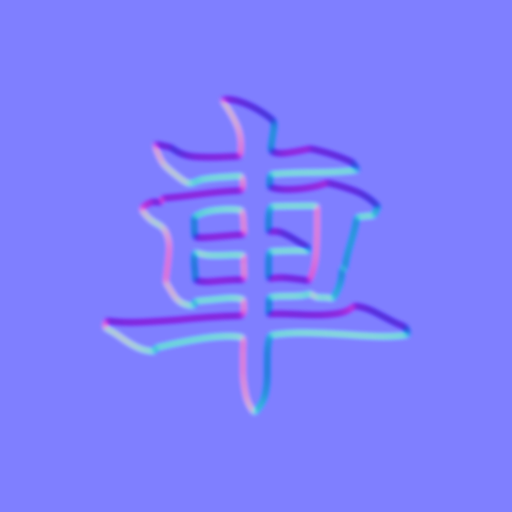
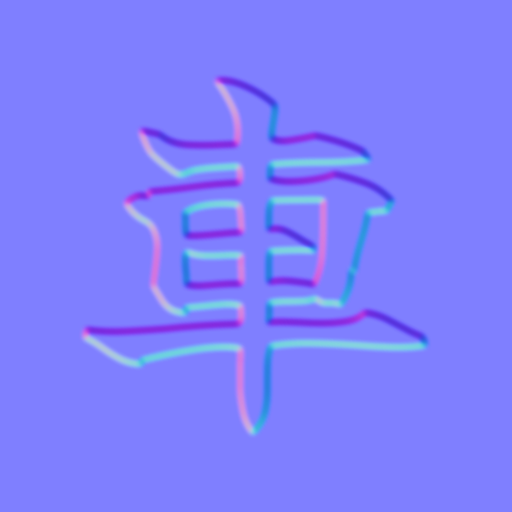
시점·글자·선택 표시를 새 3D 스타일에 맞게 다듬기
- 시야각 38도·기본 시점 68도로 원근 왜곡을 줄여 판을 크게, 세로 화면 고정
- 기물 글자를 크고 진하게 다시 구움
- 이동 가능 칸은 판 위 초록 점, 잡을 수 있는 말은 붉은 고리, 선택한 말은 살짝 들어 올림
- 직전 수는 출발 칸 작은 점·도착 칸 금색 고리로 표시

Changed region(s): [[0.1562, 0.125, 0.8438, 0.8438]]

diff --git a/Assets/Scripts/View/BoardView.cs b/Assets/Scripts/View/BoardView.cs
@@ -405,7 +405,17 @@ namespace Janggi
             Material mat = new Material(litShader);
             mat.color = new Color(0.2f, 1.0f, 0.3f, 0.8f); // 초록색 선택 표시링
             ren.material = mat;
+
+            // 고른 말을 살짝 들어 올려 집어 든 느낌을 줌
+            if (pieceRenderers.TryGetValue(pos, out liftedPiece))
+            {
+                liftedPiece.transform.position = BoardToWorldPos(pos) + Vector3.up * 0.12f;
+                liftedPos = pos;
+            }
         }
+
+        private GameObject liftedPiece;
+        private BoardPos liftedPos;
 
         private void ClearSelectionHighlight()
         {
@@ -413,6 +423,11 @@ namespace Janggi
             {
                 Destroy(selectionHighlight);
                 selectionHighlight = null;
+            }
+            if (liftedPiece != null)
+            {
+                liftedPiece.transform.position = BoardToWorldPos(liftedPos);
+                liftedPiece = null;
             }
         }
 
@@ -424,17 +439,22 @@ namespace Janggi
             Shader litShader = Shader.Find("Universal Render Pipeline/Lit");
             if (litShader == null) litShader = Shader.Find("Standard");
 
+            // 판 위에 납작하게 놓인 표시: 빈 칸은 초록 원판, 잡을 수 있는 상대 말은 아래에 붉은 고리
+            Material emptyMat = new Material(litShader) { color = new Color(0.16f, 0.48f, 0.26f) };
+            Material captureMat = new Material(litShader) { color = new Color(0.80f, 0.16f, 0.10f) };
+
             foreach (var m in moves)
             {
-                GameObject hl = GameObject.CreatePrimitive(PrimitiveType.Sphere);
+                bool isCapture = GameManager.Instance.Board[m.x, m.y] != null;
+                GameObject hl = GameObject.CreatePrimitive(PrimitiveType.Cylinder);
                 hl.name = "Highlight";
-                hl.transform.position = BoardToWorldPos(m) + new Vector3(0f, 0.18f, 0f);
-                hl.transform.localScale = new Vector3(0.28f, 0.28f, 0.28f);
+                Vector3 p = BoardToWorldPos(m);
+                hl.transform.position = new Vector3(p.x, 0.008f, p.z);
+                hl.transform.localScale = isCapture ? new Vector3(1.02f, 0.004f, 1.02f) : new Vector3(0.30f, 0.004f, 0.30f);
 
                 Renderer ren = hl.GetComponent<Renderer>();
-                Material mat = new Material(litShader);
-                mat.color = new Color(1.0f, 0.9f, 0.1f, 0.85f); // 이동 가능 위치 노란색 작은 구체
-                ren.material = mat;
+                ren.sharedMaterial = isCapture ? captureMat : emptyMat;
+                ren.shadowCastingMode = UnityEngine.Rendering.ShadowCastingMode.Off;
 
                 Destroy(hl.GetComponent<Collider>());
                 activeHighlights.Add(hl);
@@ -542,29 +562,33 @@ namespace Janggi
             Shader litShader = Shader.Find("Universal Render Pipeline/Lit");
             if (litShader == null) litShader = Shader.Find("Standard");
 
-            // 출발 위치 마커 (파란원)
+            // 출발 위치 마커: 판 위의 작은 짙은 점 (말이 떠난 자리)
             lastMoveFromHighlight = GameObject.CreatePrimitive(PrimitiveType.Cylinder);
             lastMoveFromHighlight.name = "LastMoveFrom";
-            lastMoveFromHighlight.transform.position = BoardToWorldPos(from) + new Vector3(0f, -0.05f, 0f);
-            lastMoveFromHighlight.transform.localScale = new Vector3(0.85f, 0.02f, 0.85f);
+            Vector3 fromPos = BoardToWorldPos(from);
+            lastMoveFromHighlight.transform.position = new Vector3(fromPos.x, 0.007f, fromPos.z);
+            lastMoveFromHighlight.transform.localScale = new Vector3(0.34f, 0.004f, 0.34f);
             Destroy(lastMoveFromHighlight.GetComponent<Collider>());
 
             Renderer fromRen = lastMoveFromHighlight.GetComponent<Renderer>();
             Material fromMat = new Material(litShader);
-            fromMat.color = new Color(0.1f, 0.5f, 1.0f, 0.7f); // 파란원 (Blue Circle)
+            fromMat.color = new Color(0.36f, 0.22f, 0.12f);
             fromRen.material = fromMat;
+            fromRen.shadowCastingMode = UnityEngine.Rendering.ShadowCastingMode.Off;
 
-            // 도착 위치 마커 (노란원)
+            // 도착 위치 마커: 말 아래로 비치는 금색 고리
             lastMoveToHighlight = GameObject.CreatePrimitive(PrimitiveType.Cylinder);
             lastMoveToHighlight.name = "LastMoveTo";
-            lastMoveToHighlight.transform.position = BoardToWorldPos(to) + new Vector3(0f, -0.05f, 0f);
-            lastMoveToHighlight.transform.localScale = new Vector3(0.95f, 0.02f, 0.95f);
+            Vector3 toPos = BoardToWorldPos(to);
+            lastMoveToHighlight.transform.position = new Vector3(toPos.x, 0.007f, toPos.z);
+            lastMoveToHighlight.transform.localScale = new Vector3(1.0f, 0.004f, 1.0f);
             Destroy(lastMoveToHighlight.GetComponent<Collider>());
 
             Renderer toRen = lastMoveToHighlight.GetComponent<Renderer>();
             Material toMat = new Material(litShader);
-            toMat.color = new Color(1.0f, 0.85f, 0.0f, 0.8f); // 노란원 (Yellow Circle)
+            toMat.color = new Color(0.95f, 0.70f, 0.15f);
             toRen.material = toMat;
+            toRen.shadowCastingMode = UnityEngine.Rendering.ShadowCastingMode.Off;
         }
 
         private void ClearLastMoveHighlight()

diff --git a/Assets/Scripts/UI/CameraUIController.cs b/Assets/Scripts/UI/CameraUIController.cs
@@ -13,10 +13,12 @@ namespace Janggi
         public float rotateSpeed = 45.0f;
 
         [Tooltip("기본 시점 각도. 90이면 바로 위, 작을수록 비스듬히 내려다봐 기물 두께가 보임")]
-        public float defaultPitch = 60.0f;
+        public float defaultPitch = 68.0f;
+        [Tooltip("세로 시야각. 좁을수록 원근 왜곡이 줄어 판이 화면에 크게 들어옴")]
+        public float defaultFieldOfView = 38.0f;
         public static readonly Color BackgroundColor = new Color(0.13f, 0.10f, 0.08f); // 탁자 너머 어두운 방
 
-        private float currentPitch = 60.0f;
+        private float currentPitch = 68.0f;
         private float currentYaw = 0.0f;
         private Vector3 targetLookAt = new Vector3(0f, 0f, 0f);
         private float distance = 11.2f;
@@ -26,6 +28,7 @@ namespace Janggi
             if (mainCamera == null) mainCamera = Camera.main;
             mainCamera.clearFlags = CameraClearFlags.SolidColor;
             mainCamera.backgroundColor = BackgroundColor;
+            mainCamera.fieldOfView = defaultFieldOfView;
             currentPitch = defaultPitch;
             UpdateCameraTransform();
         }
@@ -81,7 +84,8 @@ namespace Janggi
                 // 장기판 좌우 끝(x=-4.8~4.8)을 절묘하게 꽉 채우는 타겟 거리
                 targetDistance = 5.2f / (Mathf.Tan(mainCamera.fieldOfView * 0.5f * Mathf.Deg2Rad) * aspect);
                 // 비스듬히 볼 때는 가까운 쪽 판 가장자리가 더 넓게 보이므로 그만큼 물러남
-                targetDistance *= 1f + Mathf.Cos(currentPitch * Mathf.Deg2Rad) * 0.25f;
+                float fovRatio = Mathf.Tan(mainCamera.fieldOfView * 0.5f * Mathf.Deg2Rad) / Mathf.Tan(30f * Mathf.Deg2Rad);
+                targetDistance *= 1f + Mathf.Cos(currentPitch * Mathf.Deg2Rad) * 0.25f * fovRatio;
             }
 
             Quaternion rot = Quaternion.Euler(currentPitch, currentYaw, 0f);

diff --git a/Tools/PieceArt/bake_piece_textures.py b/Tools/PieceArt/bake_piece_textures.py
@@ -14,13 +14,13 @@ from PIL import Image, ImageDraw, ImageFilter, ImageFont
 ROOT = Path(__file__).resolve().parents[2]
 OUT = ROOT / "Assets/Resources/PieceArt"
 FONTS = {"Han": ROOT / "Tools/Fonts/YujiBoku-Regular.ttf", "Cho": ROOT / "Tools/Fonts/YujiSyuku-Regular.ttf"}
-INK = {"Han": (150, 22, 24), "Cho": (24, 62, 150)}
+INK = {"Han": (168, 10, 16), "Cho": (12, 46, 150)}  # 조명 아래에서도 바래 보이지 않게 진하게
 GLYPHS = {
     "King": {"Cho": "楚", "Han": "漢"}, "Guard": "士", "Car": "車", "Cannon": "包",
     "Horse": "馬", "Elephant": "象", "Pawn": {"Cho": "卒", "Han": "兵"},
 }
 SIZE = 512
-GLYPH_RATIO = 0.66      # 윗면 지름 대비 글자 크기
+GLYPH_RATIO = 0.74      # 윗면 지름 대비 글자 크기
 ENGRAVE_DEPTH = 6.0     # 노멀맵 세기 (클수록 깊게 파인 느낌)
 rng = np.random.default_rng(2026)
 
